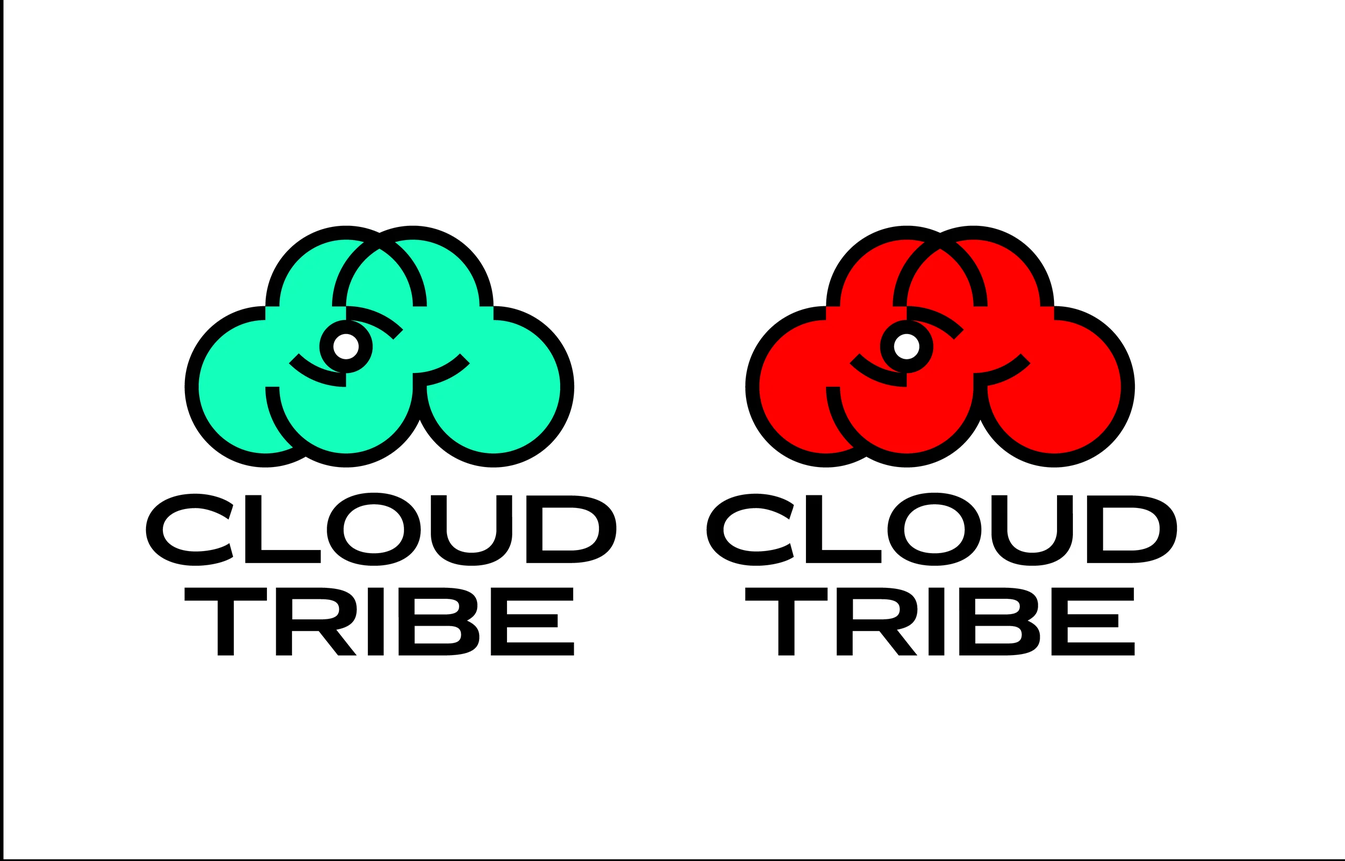
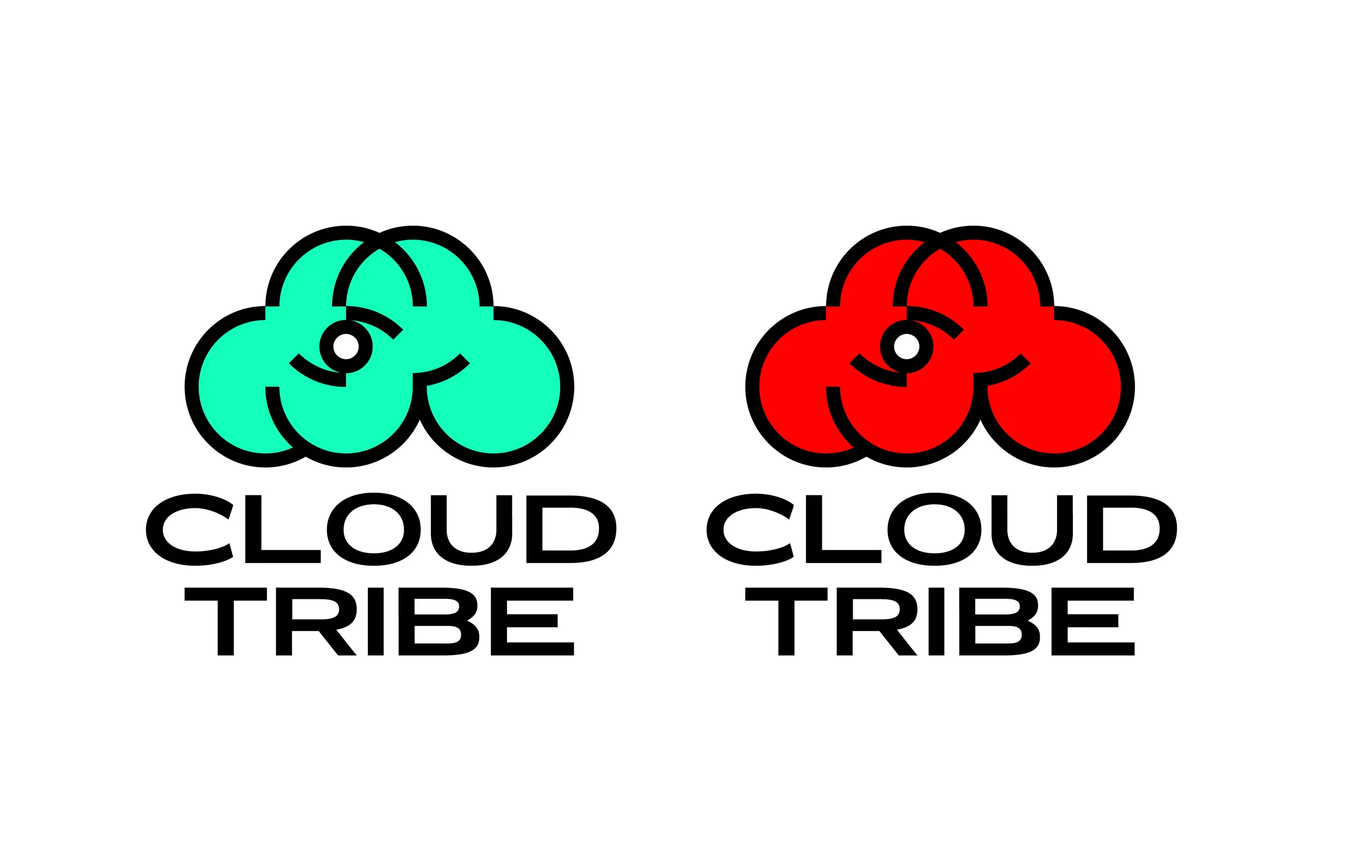
Fix transparent images showing black background

Changed region(s): [[0.0, 0.9957, 1.0, 1.0]]

diff --git a/404.html b/404.html
@@ -1,1 +1,1 @@
-<!DOCTYPE html><html lang="en" class="h-full antialiased"><head><meta charSet="utf-8"/><meta name="viewport" content="width=device-width, initial-scale=1"/><link rel="stylesheet" href="/_next/static/chunks/1lgjs4myrdrqh.css" data-precedence="next"/><link rel="preload" as="script" fetchPriority="low" href="/_next/static/chunks/3l04zcqx63h3y.js"/><script src="/_next/static/chunks/41qfcvra0dvw4.js" async=""></script><script src="/_next/static/chunks/27t_qfc-3_lzs.js" async=""></script><script src="/_next/static/chunks/turbopack-204cpt9buc445.js" async=""></script><script src="/_next/static/chunks/3fntmmi971322.js" async=""></script><meta name="robots" content="noindex"/><title>Elarys Tolkhyn</title><meta name="description" content="Elarys Tolkhyn — cross-media designer: UI/UX, book design, branding, and motion design."/><link rel="icon" href="/favicon.ico?favicon.2qs7753_qty8h.ico" sizes="32x32" type="image/x-icon"/><link rel="icon" href="/icon.png?icon.14ie00vih421c.png" sizes="256x256" type="image/png"/><title>404: This page could not be found.</title><script src="/_next/static/chunks/0cz1d0mv5g_q7.js" noModule=""></script></head><body class="h-full"><div hidden=""><!--$--><!--/$--></div><div style="font-family:system-ui,&quot;Segoe UI&quot;,Roboto,Helvetica,Arial,sans-serif,&quot;Apple Color Emoji&quot;,&quot;Segoe UI Emoji&quot;;height:100vh;text-align:center;display:flex;flex-direction:column;align-items:center;justify-content:center"><div><style>body{color:#000;background:#fff;margin:0}.next-error-h1{border-right:1px solid rgba(0,0,0,.3)}@media (prefers-color-scheme:dark){body{color:#fff;background:#000}.next-error-h1{border-right:1px solid rgba(255,255,255,.3)}}</style><h1 class="next-error-h1" style="display:inline-block;margin:0 20px 0 0;padding:0 23px 0 0;font-size:24px;font-weight:500;vertical-align:top;line-height:49px">404</h1><div style="display:inline-block"><h2 style="font-size:14px;font-weight:400;line-height:49px;margin:0">This page could not be found.</h2></div></div></div><!--$--><!--/$--><script src="/_next/static/chunks/3l04zcqx63h3y.js" id="_R_" async=""></script><script>(self.__next_f=self.__next_f||[]).push([0])</script><script>self.__next_f.push([1,"1:\"$Sreact.fragment\"\n2:I[39756,[\"/_next/static/chunks/3fntmmi971322.js\"],\"default\"]\n3:I[37457,[\"/_next/static/chunks/3fntmmi971322.js\"],\"default\"]\n4:I[97367,[\"/_next/static/chunks/3fntmmi971322.js\"],\"OutletBoundary\"]\n5:\"$Sreact.suspense\"\n8:I[97367,[\"/_next/static/chunks/3fntmmi971322.js\"],\"ViewportBoundary\"]\na:I[97367,[\"/_next/static/chunks/3fntmmi971322.js\"],\"MetadataBoundary\"]\nc:I[68027,[\"/_next/static/chunks/3fntmmi971322.js\"],\"default\",1]\n:HL[\"/_next/static/chunks/1lgjs4myrdrqh.css\",\"style\"]\n7:X\n0:{\"P\":null,\"c\":[\"\",\"_not-found\"],\"q\":\"\",\"i\":false,\"f\":[[[\"\",{\"children\":[\"/_not-found\",{\"children\":[\"__PAGE__\",{},\"$undefined\",\"$undefined\",4608]},\"$undefined\",\"$undefined\",4608]},\"$undefined\",\"$undefined\",4624],[[\"$\",\"$1\",\"c\",{\"children\":[[[\"$\",\"link\",\"0\",{\"rel\":\"stylesheet\",\"href\":\"/_next/static/chunks/1lgjs4myrdrqh.css\",\"precedence\":\"next\",\"crossOrigin\":\"$undefined\",\"nonce\":\"$undefined\"}],[\"$\",\"script\",\"script-0\",{\"src\":\"/_next/static/chunks/3fntmmi971322.js\",\"async\":true,\"nonce\":\"$undefined\"}]],[\"$\",\"html\",null,{\"lang\":\"en\",\"className\":\"h-full antialiased\",\"children\":[\"$\",\"body\",null,{\"className\":\"h-full\",\"children\":[\"$\",\"$L2\",null,{\"parallelRouterKey\":\"children\",\"error\":\"$undefined\",\"errorStyles\":\"$undefined\",\"errorScripts\":\"$undefined\",\"template\":[\"$\",\"$L3\",null,{}],\"templateStyles\":\"$undefined\",\"templateScripts\":\"$undefined\",\"notFound\":[[[\"$\",\"title\",null,{\"children\":\"404: This page could not be found.\"}],[\"$\",\"div\",null,{\"style\":{\"fontFamily\":\"system-ui,\\\"Segoe UI\\\",Roboto,Helvetica,Arial,sans-serif,\\\"Apple Color Emoji\\\",\\\"Segoe UI Emoji\\\"\",\"height\":\"100vh\",\"textAlign\":\"center\",\"display\":\"flex\",\"flexDirection\":\"column\",\"alignItems\":\"center\",\"justifyContent\":\"center\"},\"children\":[\"$\",\"div\",null,{\"children\":[[\"$\",\"style\",null,{\"dangerouslySetInnerHTML\":{\"__html\":\"body{color:#000;background:#fff;margin:0}.next-error-h1{border-right:1px solid rgba(0,0,0,.3)}@media (prefers-color-scheme:dark){body{color:#fff;background:#000}.next-error-h1{border-right:1px solid rgba(255,255,255,.3)}}\"}}],[\"$\",\"h1\",null,{\"className\":\"next-error-h1\",\"style\":{\"display\":\"inline-block\",\"margin\":\"0 20px 0 0\",\"padding\":\"0 23px 0 0\",\"fontSize\":24,\"fontWeight\":500,\"verticalAlign\":\"top\",\"lineHeight\":\"49px\"},\"children\":404}],[\"$\",\"div\",null,{\"style\":{\"display\":\"inline-block\"},\"children\":[\"$\",\"h2\",null,{\"style\":{\"fontSize\":14,\"fontWeight\":400,\"lineHeight\":\"49px\",\"margin\":0},\"children\":\"This page could not be found.\"}]}]]}]}]],[]],\"forbidden\":\"$undefined\",\"unauthorized\":\"$undefined\"}]}]}]]}],{\"children\":[[\"$\",\"$1\",\"c\",{\"children\":[null,[\"$\",\"$L2\",null,{\"parallelRouterKey\":\"children\",\"error\":\"$undefined\",\"errorStyles\":\"$undefined\",\"errorScripts\":\"$undefined\",\"template\":[\"$\",\"$L3\",null,{}],\"templateStyles\":\"$undefined\",\"templateScripts\":\"$undefined\",\"notFound\":\"$undefined\",\"forbidden\":\"$undefined\",\"unauthorized\":\"$undefined\"}]]}],{\"children\":[[\"$\",\"$1\",\"c\",{\"children\":[[[\"$\",\"title\",null,{\"children\":\"404: This page could not be found.\"}],[\"$\",\"div\",null,{\"style\":\"$0:f:0:1:0:props:children:1:props:children:props:children:props:notFound:0:1:props:style\",\"children\":[\"$\",\"div\",null,{\"children\":[[\"$\",\"style\",null,{\"dangerouslySetInnerHTML\":{\"__html\":\"body{color:#000;background:#fff;margin:0}.next-error-h1{border-right:1px solid rgba(0,0,0,.3)}@media (prefers-color-scheme:dark){body{color:#fff;background:#000}.next-error-h1{border-right:1px solid rgba(255,255,255,.3)}}\"}}],[\"$\",\"h1\",null,{\"className\":\"next-error-h1\",\"style\":\"$0:f:0:1:0:props:children:1:props:children:props:children:props:notFound:0:1:props:children:props:children:1:props:style\",\"children\":404}],[\"$\",\"div\",null,{\"style\":\"$0:f:0:1:0:props:children:1:props:children:props:children:props:notFound:0:1:props:children:props:children:2:props:style\",\"children\":[\"$\",\"h2\",null,{\"style\":\"$0:f:0:1:0:props:children:1:props:children:props:children:props:notFound:0:1:props:children:props:children:2:props:children:props:style\",\"children\":\"This page could not be found.\"}]}]]}]}]],null,[\"$\",\"$L4\",null,{\"children\":[\"$\",\"$5\",null,{\"name\":\"Next.MetadataOutlet\",\"children\":\"$@6\"}]}]]}],{},null,false,null]},null,false,\"$7\"]},null,false,null],[\"$\",\"$1\",\"h\",{\"children\":[[\"$\",\"meta\",null,{\"name\":\"robots\",\"content\":\"noindex\"}],[\"$\",\"$L8\",null,{\"children\":\"$L9\"}],[\"$\",\"div\",null,{\"hidden\":true,\"children\":[\"$\",\"$La\",null,{\"children\":[\"$\",\"$5\",null,{\"name\":\"Next.Metadata\",\"children\":\"$Lb\"}]}]}],null]}],false]],\"m\":\"$undefined\",\"G\":[\"$c\",[[\"$\",\"link\",\"0\",{\"rel\":\"stylesheet\",\"href\":\"/_next/static/chunks/1lgjs4myrdrqh.css\",\"precedence\":\"next\",\"crossOrigin\":\"$undefined\",\"nonce\":\"$undefined\"}]]],\"S\":true,\"h\":null,\"r\":\"$undefined\",\"s\":\"$undefined\",\"a\":\"$undefined\",\"l\":\"$undefined\",\"p\":\"$undefined\",\"d\":\"$undefined\",\"b\":\"ewr387u6FRDrMcxVjIfdd\"}\n7:C\n9:[[\"$\",\"meta\",\"0\",{\"charSet\":\"utf-8\"}],[\"$\",\"meta\",\"1\",{\"name\":\"viewport\",\"content\":\"width=device-width, initial-scale=1\"}]]\nd:I[27201,[\"/_next/static/chunks/3fntmmi971322.js\"],\"IconMark\"]\n6:null\nb:[[\"$\",\"title\",\"0\",{\"children\":\"Elarys Tolkhyn\"}],[\"$\",\"meta\",\"1\",{\"name\":\"description\",\"content\":\"Elarys Tolkhyn — cross-media designer: UI/UX, book design, branding, and motion design.\"}],[\"$\",\"link\",\"2\",{\"rel\":\"icon\",\"href\":\"/favicon.ico?favicon.2qs7753_qty8h.ico\",\"sizes\":\"32x32\",\"type\":\"image/x-icon\"}],[\"$\",\"link\",\"3\",{\"rel\":\"icon\",\"href\":\"/icon.png?icon.14ie00vih421c.png\",\"sizes\":\"256x256\",\"type\":\"image/png\"}],[\"$\",\"$Ld\",\"4\",{}]]\n"])</script></body></html>
+<!DOCTYPE html><html lang="en" class="h-full antialiased"><head><meta charSet="utf-8"/><meta name="viewport" content="width=device-width, initial-scale=1"/><link rel="stylesheet" href="/_next/static/chunks/1lgjs4myrdrqh.css" data-precedence="next"/><link rel="preload" as="script" fetchPriority="low" href="/_next/static/chunks/3l04zcqx63h3y.js"/><script src="/_next/static/chunks/41qfcvra0dvw4.js" async=""></script><script src="/_next/static/chunks/27t_qfc-3_lzs.js" async=""></script><script src="/_next/static/chunks/turbopack-204cpt9buc445.js" async=""></script><script src="/_next/static/chunks/3fntmmi971322.js" async=""></script><meta name="robots" content="noindex"/><title>Elarys Tolkhyn</title><meta name="description" content="Elarys Tolkhyn — cross-media designer: UI/UX, book design, branding, and motion design."/><link rel="icon" href="/favicon.ico?favicon.2qs7753_qty8h.ico" sizes="32x32" type="image/x-icon"/><link rel="icon" href="/icon.png?icon.14ie00vih421c.png" sizes="256x256" type="image/png"/><title>404: This page could not be found.</title><script src="/_next/static/chunks/0cz1d0mv5g_q7.js" noModule=""></script></head><body class="h-full"><div hidden=""><!--$--><!--/$--></div><div style="font-family:system-ui,&quot;Segoe UI&quot;,Roboto,Helvetica,Arial,sans-serif,&quot;Apple Color Emoji&quot;,&quot;Segoe UI Emoji&quot;;height:100vh;text-align:center;display:flex;flex-direction:column;align-items:center;justify-content:center"><div><style>body{color:#000;background:#fff;margin:0}.next-error-h1{border-right:1px solid rgba(0,0,0,.3)}@media (prefers-color-scheme:dark){body{color:#fff;background:#000}.next-error-h1{border-right:1px solid rgba(255,255,255,.3)}}</style><h1 class="next-error-h1" style="display:inline-block;margin:0 20px 0 0;padding:0 23px 0 0;font-size:24px;font-weight:500;vertical-align:top;line-height:49px">404</h1><div style="display:inline-block"><h2 style="font-size:14px;font-weight:400;line-height:49px;margin:0">This page could not be found.</h2></div></div></div><!--$--><!--/$--><script src="/_next/static/chunks/3l04zcqx63h3y.js" id="_R_" async=""></script><script>(self.__next_f=self.__next_f||[]).push([0])</script><script>self.__next_f.push([1,"1:\"$Sreact.fragment\"\n2:I[39756,[\"/_next/static/chunks/3fntmmi971322.js\"],\"default\"]\n3:I[37457,[\"/_next/static/chunks/3fntmmi971322.js\"],\"default\"]\n4:I[97367,[\"/_next/static/chunks/3fntmmi971322.js\"],\"OutletBoundary\"]\n5:\"$Sreact.suspense\"\n8:I[97367,[\"/_next/static/chunks/3fntmmi971322.js\"],\"ViewportBoundary\"]\na:I[97367,[\"/_next/static/chunks/3fntmmi971322.js\"],\"MetadataBoundary\"]\nc:I[68027,[\"/_next/static/chunks/3fntmmi971322.js\"],\"default\",1]\n:HL[\"/_next/static/chunks/1lgjs4myrdrqh.css\",\"style\"]\n7:X\n0:{\"P\":null,\"c\":[\"\",\"_not-found\"],\"q\":\"\",\"i\":false,\"f\":[[[\"\",{\"children\":[\"/_not-found\",{\"children\":[\"__PAGE__\",{},\"$undefined\",\"$undefined\",4608]},\"$undefined\",\"$undefined\",4608]},\"$undefined\",\"$undefined\",4624],[[\"$\",\"$1\",\"c\",{\"children\":[[[\"$\",\"link\",\"0\",{\"rel\":\"stylesheet\",\"href\":\"/_next/static/chunks/1lgjs4myrdrqh.css\",\"precedence\":\"next\",\"crossOrigin\":\"$undefined\",\"nonce\":\"$undefined\"}],[\"$\",\"script\",\"script-0\",{\"src\":\"/_next/static/chunks/3fntmmi971322.js\",\"async\":true,\"nonce\":\"$undefined\"}]],[\"$\",\"html\",null,{\"lang\":\"en\",\"className\":\"h-full antialiased\",\"children\":[\"$\",\"body\",null,{\"className\":\"h-full\",\"children\":[\"$\",\"$L2\",null,{\"parallelRouterKey\":\"children\",\"error\":\"$undefined\",\"errorStyles\":\"$undefined\",\"errorScripts\":\"$undefined\",\"template\":[\"$\",\"$L3\",null,{}],\"templateStyles\":\"$undefined\",\"templateScripts\":\"$undefined\",\"notFound\":[[[\"$\",\"title\",null,{\"children\":\"404: This page could not be found.\"}],[\"$\",\"div\",null,{\"style\":{\"fontFamily\":\"system-ui,\\\"Segoe UI\\\",Roboto,Helvetica,Arial,sans-serif,\\\"Apple Color Emoji\\\",\\\"Segoe UI Emoji\\\"\",\"height\":\"100vh\",\"textAlign\":\"center\",\"display\":\"flex\",\"flexDirection\":\"column\",\"alignItems\":\"center\",\"justifyContent\":\"center\"},\"children\":[\"$\",\"div\",null,{\"children\":[[\"$\",\"style\",null,{\"dangerouslySetInnerHTML\":{\"__html\":\"body{color:#000;background:#fff;margin:0}.next-error-h1{border-right:1px solid rgba(0,0,0,.3)}@media (prefers-color-scheme:dark){body{color:#fff;background:#000}.next-error-h1{border-right:1px solid rgba(255,255,255,.3)}}\"}}],[\"$\",\"h1\",null,{\"className\":\"next-error-h1\",\"style\":{\"display\":\"inline-block\",\"margin\":\"0 20px 0 0\",\"padding\":\"0 23px 0 0\",\"fontSize\":24,\"fontWeight\":500,\"verticalAlign\":\"top\",\"lineHeight\":\"49px\"},\"children\":404}],[\"$\",\"div\",null,{\"style\":{\"display\":\"inline-block\"},\"children\":[\"$\",\"h2\",null,{\"style\":{\"fontSize\":14,\"fontWeight\":400,\"lineHeight\":\"49px\",\"margin\":0},\"children\":\"This page could not be found.\"}]}]]}]}]],[]],\"forbidden\":\"$undefined\",\"unauthorized\":\"$undefined\"}]}]}]]}],{\"children\":[[\"$\",\"$1\",\"c\",{\"children\":[null,[\"$\",\"$L2\",null,{\"parallelRouterKey\":\"children\",\"error\":\"$undefined\",\"errorStyles\":\"$undefined\",\"errorScripts\":\"$undefined\",\"template\":[\"$\",\"$L3\",null,{}],\"templateStyles\":\"$undefined\",\"templateScripts\":\"$undefined\",\"notFound\":\"$undefined\",\"forbidden\":\"$undefined\",\"unauthorized\":\"$undefined\"}]]}],{\"children\":[[\"$\",\"$1\",\"c\",{\"children\":[[[\"$\",\"title\",null,{\"children\":\"404: This page could not be found.\"}],[\"$\",\"div\",null,{\"style\":\"$0:f:0:1:0:props:children:1:props:children:props:children:props:notFound:0:1:props:style\",\"children\":[\"$\",\"div\",null,{\"children\":[[\"$\",\"style\",null,{\"dangerouslySetInnerHTML\":{\"__html\":\"body{color:#000;background:#fff;margin:0}.next-error-h1{border-right:1px solid rgba(0,0,0,.3)}@media (prefers-color-scheme:dark){body{color:#fff;background:#000}.next-error-h1{border-right:1px solid rgba(255,255,255,.3)}}\"}}],[\"$\",\"h1\",null,{\"className\":\"next-error-h1\",\"style\":\"$0:f:0:1:0:props:children:1:props:children:props:children:props:notFound:0:1:props:children:props:children:1:props:style\",\"children\":404}],[\"$\",\"div\",null,{\"style\":\"$0:f:0:1:0:props:children:1:props:children:props:children:props:notFound:0:1:props:children:props:children:2:props:style\",\"children\":[\"$\",\"h2\",null,{\"style\":\"$0:f:0:1:0:props:children:1:props:children:props:children:props:notFound:0:1:props:children:props:children:2:props:children:props:style\",\"children\":\"This page could not be found.\"}]}]]}]}]],null,[\"$\",\"$L4\",null,{\"children\":[\"$\",\"$5\",null,{\"name\":\"Next.MetadataOutlet\",\"children\":\"$@6\"}]}]]}],{},null,false,null]},null,false,\"$7\"]},null,false,null],[\"$\",\"$1\",\"h\",{\"children\":[[\"$\",\"meta\",null,{\"name\":\"robots\",\"content\":\"noindex\"}],[\"$\",\"$L8\",null,{\"children\":\"$L9\"}],[\"$\",\"div\",null,{\"hidden\":true,\"children\":[\"$\",\"$La\",null,{\"children\":[\"$\",\"$5\",null,{\"name\":\"Next.Metadata\",\"children\":\"$Lb\"}]}]}],null]}],false]],\"m\":\"$undefined\",\"G\":[\"$c\",[[\"$\",\"link\",\"0\",{\"rel\":\"stylesheet\",\"href\":\"/_next/static/chunks/1lgjs4myrdrqh.css\",\"precedence\":\"next\",\"crossOrigin\":\"$undefined\",\"nonce\":\"$undefined\"}]]],\"S\":true,\"h\":null,\"r\":\"$undefined\",\"s\":\"$undefined\",\"a\":\"$undefined\",\"l\":\"$undefined\",\"p\":\"$undefined\",\"d\":\"$undefined\",\"b\":\"l8V9WzVtTxgX5KHyaX-Y7\"}\n7:C\n9:[[\"$\",\"meta\",\"0\",{\"charSet\":\"utf-8\"}],[\"$\",\"meta\",\"1\",{\"name\":\"viewport\",\"content\":\"width=device-width, initial-scale=1\"}]]\nd:I[27201,[\"/_next/static/chunks/3fntmmi971322.js\"],\"IconMark\"]\n6:null\nb:[[\"$\",\"title\",\"0\",{\"children\":\"Elarys Tolkhyn\"}],[\"$\",\"meta\",\"1\",{\"name\":\"description\",\"content\":\"Elarys Tolkhyn — cross-media designer: UI/UX, book design, branding, and motion design.\"}],[\"$\",\"link\",\"2\",{\"rel\":\"icon\",\"href\":\"/favicon.ico?favicon.2qs7753_qty8h.ico\",\"sizes\":\"32x32\",\"type\":\"image/x-icon\"}],[\"$\",\"link\",\"3\",{\"rel\":\"icon\",\"href\":\"/icon.png?icon.14ie00vih421c.png\",\"sizes\":\"256x256\",\"type\":\"image/png\"}],[\"$\",\"$Ld\",\"4\",{}]]\n"])</script></body></html>

diff --git a/_not-found.html b/_not-found.html
@@ -1,1 +1,1 @@
-<!DOCTYPE html><html lang="en" class="h-full antialiased"><head><meta charSet="utf-8"/><meta name="viewport" content="width=device-width, initial-scale=1"/><link rel="stylesheet" href="/_next/static/chunks/1lgjs4myrdrqh.css" data-precedence="next"/><link rel="preload" as="script" fetchPriority="low" href="/_next/static/chunks/3l04zcqx63h3y.js"/><script src="/_next/static/chunks/41qfcvra0dvw4.js" async=""></script><script src="/_next/static/chunks/27t_qfc-3_lzs.js" async=""></script><script src="/_next/static/chunks/turbopack-204cpt9buc445.js" async=""></script><script src="/_next/static/chunks/3fntmmi971322.js" async=""></script><meta name="robots" content="noindex"/><title>Elarys Tolkhyn</title><meta name="description" content="Elarys Tolkhyn — cross-media designer: UI/UX, book design, branding, and motion design."/><link rel="icon" href="/favicon.ico?favicon.2qs7753_qty8h.ico" sizes="32x32" type="image/x-icon"/><link rel="icon" href="/icon.png?icon.14ie00vih421c.png" sizes="256x256" type="image/png"/><title>404: This page could not be found.</title><script src="/_next/static/chunks/0cz1d0mv5g_q7.js" noModule=""></script></head><body class="h-full"><div hidden=""><!--$--><!--/$--></div><div style="font-family:system-ui,&quot;Segoe UI&quot;,Roboto,Helvetica,Arial,sans-serif,&quot;Apple Color Emoji&quot;,&quot;Segoe UI Emoji&quot;;height:100vh;text-align:center;display:flex;flex-direction:column;align-items:center;justify-content:center"><div><style>body{color:#000;background:#fff;margin:0}.next-error-h1{border-right:1px solid rgba(0,0,0,.3)}@media (prefers-color-scheme:dark){body{color:#fff;background:#000}.next-error-h1{border-right:1px solid rgba(255,255,255,.3)}}</style><h1 class="next-error-h1" style="display:inline-block;margin:0 20px 0 0;padding:0 23px 0 0;font-size:24px;font-weight:500;vertical-align:top;line-height:49px">404</h1><div style="display:inline-block"><h2 style="font-size:14px;font-weight:400;line-height:49px;margin:0">This page could not be found.</h2></div></div></div><!--$--><!--/$--><script src="/_next/static/chunks/3l04zcqx63h3y.js" id="_R_" async=""></script><script>(self.__next_f=self.__next_f||[]).push([0])</script><script>self.__next_f.push([1,"1:\"$Sreact.fragment\"\n2:I[39756,[\"/_next/static/chunks/3fntmmi971322.js\"],\"default\"]\n3:I[37457,[\"/_next/static/chunks/3fntmmi971322.js\"],\"default\"]\n4:I[97367,[\"/_next/static/chunks/3fntmmi971322.js\"],\"OutletBoundary\"]\n5:\"$Sreact.suspense\"\n8:I[97367,[\"/_next/static/chunks/3fntmmi971322.js\"],\"ViewportBoundary\"]\na:I[97367,[\"/_next/static/chunks/3fntmmi971322.js\"],\"MetadataBoundary\"]\nc:I[68027,[\"/_next/static/chunks/3fntmmi971322.js\"],\"default\",1]\n:HL[\"/_next/static/chunks/1lgjs4myrdrqh.css\",\"style\"]\n7:X\n0:{\"P\":null,\"c\":[\"\",\"_not-found\"],\"q\":\"\",\"i\":false,\"f\":[[[\"\",{\"children\":[\"/_not-found\",{\"children\":[\"__PAGE__\",{},\"$undefined\",\"$undefined\",4608]},\"$undefined\",\"$undefined\",4608]},\"$undefined\",\"$undefined\",4624],[[\"$\",\"$1\",\"c\",{\"children\":[[[\"$\",\"link\",\"0\",{\"rel\":\"stylesheet\",\"href\":\"/_next/static/chunks/1lgjs4myrdrqh.css\",\"precedence\":\"next\",\"crossOrigin\":\"$undefined\",\"nonce\":\"$undefined\"}],[\"$\",\"script\",\"script-0\",{\"src\":\"/_next/static/chunks/3fntmmi971322.js\",\"async\":true,\"nonce\":\"$undefined\"}]],[\"$\",\"html\",null,{\"lang\":\"en\",\"className\":\"h-full antialiased\",\"children\":[\"$\",\"body\",null,{\"className\":\"h-full\",\"children\":[\"$\",\"$L2\",null,{\"parallelRouterKey\":\"children\",\"error\":\"$undefined\",\"errorStyles\":\"$undefined\",\"errorScripts\":\"$undefined\",\"template\":[\"$\",\"$L3\",null,{}],\"templateStyles\":\"$undefined\",\"templateScripts\":\"$undefined\",\"notFound\":[[[\"$\",\"title\",null,{\"children\":\"404: This page could not be found.\"}],[\"$\",\"div\",null,{\"style\":{\"fontFamily\":\"system-ui,\\\"Segoe UI\\\",Roboto,Helvetica,Arial,sans-serif,\\\"Apple Color Emoji\\\",\\\"Segoe UI Emoji\\\"\",\"height\":\"100vh\",\"textAlign\":\"center\",\"display\":\"flex\",\"flexDirection\":\"column\",\"alignItems\":\"center\",\"justifyContent\":\"center\"},\"children\":[\"$\",\"div\",null,{\"children\":[[\"$\",\"style\",null,{\"dangerouslySetInnerHTML\":{\"__html\":\"body{color:#000;background:#fff;margin:0}.next-error-h1{border-right:1px solid rgba(0,0,0,.3)}@media (prefers-color-scheme:dark){body{color:#fff;background:#000}.next-error-h1{border-right:1px solid rgba(255,255,255,.3)}}\"}}],[\"$\",\"h1\",null,{\"className\":\"next-error-h1\",\"style\":{\"display\":\"inline-block\",\"margin\":\"0 20px 0 0\",\"padding\":\"0 23px 0 0\",\"fontSize\":24,\"fontWeight\":500,\"verticalAlign\":\"top\",\"lineHeight\":\"49px\"},\"children\":404}],[\"$\",\"div\",null,{\"style\":{\"display\":\"inline-block\"},\"children\":[\"$\",\"h2\",null,{\"style\":{\"fontSize\":14,\"fontWeight\":400,\"lineHeight\":\"49px\",\"margin\":0},\"children\":\"This page could not be found.\"}]}]]}]}]],[]],\"forbidden\":\"$undefined\",\"unauthorized\":\"$undefined\"}]}]}]]}],{\"children\":[[\"$\",\"$1\",\"c\",{\"children\":[null,[\"$\",\"$L2\",null,{\"parallelRouterKey\":\"children\",\"error\":\"$undefined\",\"errorStyles\":\"$undefined\",\"errorScripts\":\"$undefined\",\"template\":[\"$\",\"$L3\",null,{}],\"templateStyles\":\"$undefined\",\"templateScripts\":\"$undefined\",\"notFound\":\"$undefined\",\"forbidden\":\"$undefined\",\"unauthorized\":\"$undefined\"}]]}],{\"children\":[[\"$\",\"$1\",\"c\",{\"children\":[[[\"$\",\"title\",null,{\"children\":\"404: This page could not be found.\"}],[\"$\",\"div\",null,{\"style\":\"$0:f:0:1:0:props:children:1:props:children:props:children:props:notFound:0:1:props:style\",\"children\":[\"$\",\"div\",null,{\"children\":[[\"$\",\"style\",null,{\"dangerouslySetInnerHTML\":{\"__html\":\"body{color:#000;background:#fff;margin:0}.next-error-h1{border-right:1px solid rgba(0,0,0,.3)}@media (prefers-color-scheme:dark){body{color:#fff;background:#000}.next-error-h1{border-right:1px solid rgba(255,255,255,.3)}}\"}}],[\"$\",\"h1\",null,{\"className\":\"next-error-h1\",\"style\":\"$0:f:0:1:0:props:children:1:props:children:props:children:props:notFound:0:1:props:children:props:children:1:props:style\",\"children\":404}],[\"$\",\"div\",null,{\"style\":\"$0:f:0:1:0:props:children:1:props:children:props:children:props:notFound:0:1:props:children:props:children:2:props:style\",\"children\":[\"$\",\"h2\",null,{\"style\":\"$0:f:0:1:0:props:children:1:props:children:props:children:props:notFound:0:1:props:children:props:children:2:props:children:props:style\",\"children\":\"This page could not be found.\"}]}]]}]}]],null,[\"$\",\"$L4\",null,{\"children\":[\"$\",\"$5\",null,{\"name\":\"Next.MetadataOutlet\",\"children\":\"$@6\"}]}]]}],{},null,false,null]},null,false,\"$7\"]},null,false,null],[\"$\",\"$1\",\"h\",{\"children\":[[\"$\",\"meta\",null,{\"name\":\"robots\",\"content\":\"noindex\"}],[\"$\",\"$L8\",null,{\"children\":\"$L9\"}],[\"$\",\"div\",null,{\"hidden\":true,\"children\":[\"$\",\"$La\",null,{\"children\":[\"$\",\"$5\",null,{\"name\":\"Next.Metadata\",\"children\":\"$Lb\"}]}]}],null]}],false]],\"m\":\"$undefined\",\"G\":[\"$c\",[[\"$\",\"link\",\"0\",{\"rel\":\"stylesheet\",\"href\":\"/_next/static/chunks/1lgjs4myrdrqh.css\",\"precedence\":\"next\",\"crossOrigin\":\"$undefined\",\"nonce\":\"$undefined\"}]]],\"S\":true,\"h\":null,\"r\":\"$undefined\",\"s\":\"$undefined\",\"a\":\"$undefined\",\"l\":\"$undefined\",\"p\":\"$undefined\",\"d\":\"$undefined\",\"b\":\"ewr387u6FRDrMcxVjIfdd\"}\n7:C\n9:[[\"$\",\"meta\",\"0\",{\"charSet\":\"utf-8\"}],[\"$\",\"meta\",\"1\",{\"name\":\"viewport\",\"content\":\"width=device-width, initial-scale=1\"}]]\nd:I[27201,[\"/_next/static/chunks/3fntmmi971322.js\"],\"IconMark\"]\n6:null\nb:[[\"$\",\"title\",\"0\",{\"children\":\"Elarys Tolkhyn\"}],[\"$\",\"meta\",\"1\",{\"name\":\"description\",\"content\":\"Elarys Tolkhyn — cross-media designer: UI/UX, book design, branding, and motion design.\"}],[\"$\",\"link\",\"2\",{\"rel\":\"icon\",\"href\":\"/favicon.ico?favicon.2qs7753_qty8h.ico\",\"sizes\":\"32x32\",\"type\":\"image/x-icon\"}],[\"$\",\"link\",\"3\",{\"rel\":\"icon\",\"href\":\"/icon.png?icon.14ie00vih421c.png\",\"sizes\":\"256x256\",\"type\":\"image/png\"}],[\"$\",\"$Ld\",\"4\",{}]]\n"])</script></body></html>
+<!DOCTYPE html><html lang="en" class="h-full antialiased"><head><meta charSet="utf-8"/><meta name="viewport" content="width=device-width, initial-scale=1"/><link rel="stylesheet" href="/_next/static/chunks/1lgjs4myrdrqh.css" data-precedence="next"/><link rel="preload" as="script" fetchPriority="low" href="/_next/static/chunks/3l04zcqx63h3y.js"/><script src="/_next/static/chunks/41qfcvra0dvw4.js" async=""></script><script src="/_next/static/chunks/27t_qfc-3_lzs.js" async=""></script><script src="/_next/static/chunks/turbopack-204cpt9buc445.js" async=""></script><script src="/_next/static/chunks/3fntmmi971322.js" async=""></script><meta name="robots" content="noindex"/><title>Elarys Tolkhyn</title><meta name="description" content="Elarys Tolkhyn — cross-media designer: UI/UX, book design, branding, and motion design."/><link rel="icon" href="/favicon.ico?favicon.2qs7753_qty8h.ico" sizes="32x32" type="image/x-icon"/><link rel="icon" href="/icon.png?icon.14ie00vih421c.png" sizes="256x256" type="image/png"/><title>404: This page could not be found.</title><script src="/_next/static/chunks/0cz1d0mv5g_q7.js" noModule=""></script></head><body class="h-full"><div hidden=""><!--$--><!--/$--></div><div style="font-family:system-ui,&quot;Segoe UI&quot;,Roboto,Helvetica,Arial,sans-serif,&quot;Apple Color Emoji&quot;,&quot;Segoe UI Emoji&quot;;height:100vh;text-align:center;display:flex;flex-direction:column;align-items:center;justify-content:center"><div><style>body{color:#000;background:#fff;margin:0}.next-error-h1{border-right:1px solid rgba(0,0,0,.3)}@media (prefers-color-scheme:dark){body{color:#fff;background:#000}.next-error-h1{border-right:1px solid rgba(255,255,255,.3)}}</style><h1 class="next-error-h1" style="display:inline-block;margin:0 20px 0 0;padding:0 23px 0 0;font-size:24px;font-weight:500;vertical-align:top;line-height:49px">404</h1><div style="display:inline-block"><h2 style="font-size:14px;font-weight:400;line-height:49px;margin:0">This page could not be found.</h2></div></div></div><!--$--><!--/$--><script src="/_next/static/chunks/3l04zcqx63h3y.js" id="_R_" async=""></script><script>(self.__next_f=self.__next_f||[]).push([0])</script><script>self.__next_f.push([1,"1:\"$Sreact.fragment\"\n2:I[39756,[\"/_next/static/chunks/3fntmmi971322.js\"],\"default\"]\n3:I[37457,[\"/_next/static/chunks/3fntmmi971322.js\"],\"default\"]\n4:I[97367,[\"/_next/static/chunks/3fntmmi971322.js\"],\"OutletBoundary\"]\n5:\"$Sreact.suspense\"\n8:I[97367,[\"/_next/static/chunks/3fntmmi971322.js\"],\"ViewportBoundary\"]\na:I[97367,[\"/_next/static/chunks/3fntmmi971322.js\"],\"MetadataBoundary\"]\nc:I[68027,[\"/_next/static/chunks/3fntmmi971322.js\"],\"default\",1]\n:HL[\"/_next/static/chunks/1lgjs4myrdrqh.css\",\"style\"]\n7:X\n0:{\"P\":null,\"c\":[\"\",\"_not-found\"],\"q\":\"\",\"i\":false,\"f\":[[[\"\",{\"children\":[\"/_not-found\",{\"children\":[\"__PAGE__\",{},\"$undefined\",\"$undefined\",4608]},\"$undefined\",\"$undefined\",4608]},\"$undefined\",\"$undefined\",4624],[[\"$\",\"$1\",\"c\",{\"children\":[[[\"$\",\"link\",\"0\",{\"rel\":\"stylesheet\",\"href\":\"/_next/static/chunks/1lgjs4myrdrqh.css\",\"precedence\":\"next\",\"crossOrigin\":\"$undefined\",\"nonce\":\"$undefined\"}],[\"$\",\"script\",\"script-0\",{\"src\":\"/_next/static/chunks/3fntmmi971322.js\",\"async\":true,\"nonce\":\"$undefined\"}]],[\"$\",\"html\",null,{\"lang\":\"en\",\"className\":\"h-full antialiased\",\"children\":[\"$\",\"body\",null,{\"className\":\"h-full\",\"children\":[\"$\",\"$L2\",null,{\"parallelRouterKey\":\"children\",\"error\":\"$undefined\",\"errorStyles\":\"$undefined\",\"errorScripts\":\"$undefined\",\"template\":[\"$\",\"$L3\",null,{}],\"templateStyles\":\"$undefined\",\"templateScripts\":\"$undefined\",\"notFound\":[[[\"$\",\"title\",null,{\"children\":\"404: This page could not be found.\"}],[\"$\",\"div\",null,{\"style\":{\"fontFamily\":\"system-ui,\\\"Segoe UI\\\",Roboto,Helvetica,Arial,sans-serif,\\\"Apple Color Emoji\\\",\\\"Segoe UI Emoji\\\"\",\"height\":\"100vh\",\"textAlign\":\"center\",\"display\":\"flex\",\"flexDirection\":\"column\",\"alignItems\":\"center\",\"justifyContent\":\"center\"},\"children\":[\"$\",\"div\",null,{\"children\":[[\"$\",\"style\",null,{\"dangerouslySetInnerHTML\":{\"__html\":\"body{color:#000;background:#fff;margin:0}.next-error-h1{border-right:1px solid rgba(0,0,0,.3)}@media (prefers-color-scheme:dark){body{color:#fff;background:#000}.next-error-h1{border-right:1px solid rgba(255,255,255,.3)}}\"}}],[\"$\",\"h1\",null,{\"className\":\"next-error-h1\",\"style\":{\"display\":\"inline-block\",\"margin\":\"0 20px 0 0\",\"padding\":\"0 23px 0 0\",\"fontSize\":24,\"fontWeight\":500,\"verticalAlign\":\"top\",\"lineHeight\":\"49px\"},\"children\":404}],[\"$\",\"div\",null,{\"style\":{\"display\":\"inline-block\"},\"children\":[\"$\",\"h2\",null,{\"style\":{\"fontSize\":14,\"fontWeight\":400,\"lineHeight\":\"49px\",\"margin\":0},\"children\":\"This page could not be found.\"}]}]]}]}]],[]],\"forbidden\":\"$undefined\",\"unauthorized\":\"$undefined\"}]}]}]]}],{\"children\":[[\"$\",\"$1\",\"c\",{\"children\":[null,[\"$\",\"$L2\",null,{\"parallelRouterKey\":\"children\",\"error\":\"$undefined\",\"errorStyles\":\"$undefined\",\"errorScripts\":\"$undefined\",\"template\":[\"$\",\"$L3\",null,{}],\"templateStyles\":\"$undefined\",\"templateScripts\":\"$undefined\",\"notFound\":\"$undefined\",\"forbidden\":\"$undefined\",\"unauthorized\":\"$undefined\"}]]}],{\"children\":[[\"$\",\"$1\",\"c\",{\"children\":[[[\"$\",\"title\",null,{\"children\":\"404: This page could not be found.\"}],[\"$\",\"div\",null,{\"style\":\"$0:f:0:1:0:props:children:1:props:children:props:children:props:notFound:0:1:props:style\",\"children\":[\"$\",\"div\",null,{\"children\":[[\"$\",\"style\",null,{\"dangerouslySetInnerHTML\":{\"__html\":\"body{color:#000;background:#fff;margin:0}.next-error-h1{border-right:1px solid rgba(0,0,0,.3)}@media (prefers-color-scheme:dark){body{color:#fff;background:#000}.next-error-h1{border-right:1px solid rgba(255,255,255,.3)}}\"}}],[\"$\",\"h1\",null,{\"className\":\"next-error-h1\",\"style\":\"$0:f:0:1:0:props:children:1:props:children:props:children:props:notFound:0:1:props:children:props:children:1:props:style\",\"children\":404}],[\"$\",\"div\",null,{\"style\":\"$0:f:0:1:0:props:children:1:props:children:props:children:props:notFound:0:1:props:children:props:children:2:props:style\",\"children\":[\"$\",\"h2\",null,{\"style\":\"$0:f:0:1:0:props:children:1:props:children:props:children:props:notFound:0:1:props:children:props:children:2:props:children:props:style\",\"children\":\"This page could not be found.\"}]}]]}]}]],null,[\"$\",\"$L4\",null,{\"children\":[\"$\",\"$5\",null,{\"name\":\"Next.MetadataOutlet\",\"children\":\"$@6\"}]}]]}],{},null,false,null]},null,false,\"$7\"]},null,false,null],[\"$\",\"$1\",\"h\",{\"children\":[[\"$\",\"meta\",null,{\"name\":\"robots\",\"content\":\"noindex\"}],[\"$\",\"$L8\",null,{\"children\":\"$L9\"}],[\"$\",\"div\",null,{\"hidden\":true,\"children\":[\"$\",\"$La\",null,{\"children\":[\"$\",\"$5\",null,{\"name\":\"Next.Metadata\",\"children\":\"$Lb\"}]}]}],null]}],false]],\"m\":\"$undefined\",\"G\":[\"$c\",[[\"$\",\"link\",\"0\",{\"rel\":\"stylesheet\",\"href\":\"/_next/static/chunks/1lgjs4myrdrqh.css\",\"precedence\":\"next\",\"crossOrigin\":\"$undefined\",\"nonce\":\"$undefined\"}]]],\"S\":true,\"h\":null,\"r\":\"$undefined\",\"s\":\"$undefined\",\"a\":\"$undefined\",\"l\":\"$undefined\",\"p\":\"$undefined\",\"d\":\"$undefined\",\"b\":\"l8V9WzVtTxgX5KHyaX-Y7\"}\n7:C\n9:[[\"$\",\"meta\",\"0\",{\"charSet\":\"utf-8\"}],[\"$\",\"meta\",\"1\",{\"name\":\"viewport\",\"content\":\"width=device-width, initial-scale=1\"}]]\nd:I[27201,[\"/_next/static/chunks/3fntmmi971322.js\"],\"IconMark\"]\n6:null\nb:[[\"$\",\"title\",\"0\",{\"children\":\"Elarys Tolkhyn\"}],[\"$\",\"meta\",\"1\",{\"name\":\"description\",\"content\":\"Elarys Tolkhyn — cross-media designer: UI/UX, book design, branding, and motion design.\"}],[\"$\",\"link\",\"2\",{\"rel\":\"icon\",\"href\":\"/favicon.ico?favicon.2qs7753_qty8h.ico\",\"sizes\":\"32x32\",\"type\":\"image/x-icon\"}],[\"$\",\"link\",\"3\",{\"rel\":\"icon\",\"href\":\"/icon.png?icon.14ie00vih421c.png\",\"sizes\":\"256x256\",\"type\":\"image/png\"}],[\"$\",\"$Ld\",\"4\",{}]]\n"])</script></body></html>

diff --git a/index.html b/index.html
@@ -9,4 +9,4 @@
         src: url("sites/studiodpi-work-708a7940/root-8a5edab2/fonts/AntiqueOli-Reg.woff2") format("woff2");
         font-display: swap;
       }
-    </style><main class="relative min-h-screen w-full bg-white"></main><!--$--><!--/$--><script src="/_next/static/chunks/3l04zcqx63h3y.js" id="_R_" async=""></script><script>(self.__next_f=self.__next_f||[]).push([0])</script><script>self.__next_f.push([1,"1:\"$Sreact.fragment\"\n2:I[39756,[\"/_next/static/chunks/3fntmmi971322.js\"],\"default\"]\n3:I[37457,[\"/_next/static/chunks/3fntmmi971322.js\"],\"default\"]\n4:I[25625,[\"/_next/static/chunks/3fntmmi971322.js\",\"/_next/static/chunks/2-dr2digc02bp.js\"],\"DpiApp\"]\n5:I[97367,[\"/_next/static/chunks/3fntmmi971322.js\"],\"OutletBoundary\"]\n6:\"$Sreact.suspense\"\n8:I[97367,[\"/_next/static/chunks/3fntmmi971322.js\"],\"ViewportBoundary\"]\na:I[97367,[\"/_next/static/chunks/3fntmmi971322.js\"],\"MetadataBoundary\"]\nc:I[68027,[\"/_next/static/chunks/3fntmmi971322.js\"],\"default\",1]\n:HL[\"/_next/static/chunks/1lgjs4myrdrqh.css\",\"style\"]\n:HL[\"/_next/static/chunks/22r45i7cmhs_4.css\",\"style\"]\n0:{\"P\":null,\"c\":[\"\",\"\"],\"q\":\"\",\"i\":false,\"f\":[[[\"\",{\"children\":[\"__PAGE__\",{},\"$undefined\",\"$undefined\",4608]},\"$undefined\",\"$undefined\",4624],[[\"$\",\"$1\",\"c\",{\"children\":[[[\"$\",\"link\",\"0\",{\"rel\":\"stylesheet\",\"href\":\"/_next/static/chunks/1lgjs4myrdrqh.css\",\"precedence\":\"next\",\"crossOrigin\":\"$undefined\",\"nonce\":\"$undefined\"}],[\"$\",\"script\",\"script-0\",{\"src\":\"/_next/static/chunks/3fntmmi971322.js\",\"async\":true,\"nonce\":\"$undefined\"}]],[\"$\",\"html\",null,{\"lang\":\"en\",\"className\":\"h-full antialiased\",\"children\":[\"$\",\"body\",null,{\"className\":\"h-full\",\"children\":[\"$\",\"$L2\",null,{\"parallelRouterKey\":\"children\",\"error\":\"$undefined\",\"errorStyles\":\"$undefined\",\"errorScripts\":\"$undefined\",\"template\":[\"$\",\"$L3\",null,{}],\"templateStyles\":\"$undefined\",\"templateScripts\":\"$undefined\",\"notFound\":[[[\"$\",\"title\",null,{\"children\":\"404: This page could not be found.\"}],[\"$\",\"div\",null,{\"style\":{\"fontFamily\":\"system-ui,\\\"Segoe UI\\\",Roboto,Helvetica,Arial,sans-serif,\\\"Apple Color Emoji\\\",\\\"Segoe UI Emoji\\\"\",\"height\":\"100vh\",\"textAlign\":\"center\",\"display\":\"flex\",\"flexDirection\":\"column\",\"alignItems\":\"center\",\"justifyContent\":\"center\"},\"children\":[\"$\",\"div\",null,{\"children\":[[\"$\",\"style\",null,{\"dangerouslySetInnerHTML\":{\"__html\":\"body{color:#000;background:#fff;margin:0}.next-error-h1{border-right:1px solid rgba(0,0,0,.3)}@media (prefers-color-scheme:dark){body{color:#fff;background:#000}.next-error-h1{border-right:1px solid rgba(255,255,255,.3)}}\"}}],[\"$\",\"h1\",null,{\"className\":\"next-error-h1\",\"style\":{\"display\":\"inline-block\",\"margin\":\"0 20px 0 0\",\"padding\":\"0 23px 0 0\",\"fontSize\":24,\"fontWeight\":500,\"verticalAlign\":\"top\",\"lineHeight\":\"49px\"},\"children\":404}],[\"$\",\"div\",null,{\"style\":{\"display\":\"inline-block\"},\"children\":[\"$\",\"h2\",null,{\"style\":{\"fontSize\":14,\"fontWeight\":400,\"lineHeight\":\"49px\",\"margin\":0},\"children\":\"This page could not be found.\"}]}]]}]}]],[]],\"forbidden\":\"$undefined\",\"unauthorized\":\"$undefined\"}]}]}]]}],{\"children\":[[\"$\",\"$1\",\"c\",{\"children\":[[\"$\",\"$L4\",null,{}],[[\"$\",\"link\",\"0\",{\"rel\":\"stylesheet\",\"href\":\"/_next/static/chunks/22r45i7cmhs_4.css\",\"precedence\":\"next\",\"crossOrigin\":\"$undefined\",\"nonce\":\"$undefined\"}],[\"$\",\"script\",\"script-0\",{\"src\":\"/_next/static/chunks/2-dr2digc02bp.js\",\"async\":true,\"nonce\":\"$undefined\"}]],[\"$\",\"$L5\",null,{\"children\":[\"$\",\"$6\",null,{\"name\":\"Next.MetadataOutlet\",\"children\":\"$@7\"}]}]]}],{},null,false,null]},null,false,null],[\"$\",\"$1\",\"h\",{\"children\":[null,[\"$\",\"$L8\",null,{\"children\":\"$L9\"}],[\"$\",\"div\",null,{\"hidden\":true,\"children\":[\"$\",\"$La\",null,{\"children\":[\"$\",\"$6\",null,{\"name\":\"Next.Metadata\",\"children\":\"$Lb\"}]}]}],null]}],false]],\"m\":\"$undefined\",\"G\":[\"$c\",[[\"$\",\"link\",\"0\",{\"rel\":\"stylesheet\",\"href\":\"/_next/static/chunks/1lgjs4myrdrqh.css\",\"precedence\":\"next\",\"crossOrigin\":\"$undefined\",\"nonce\":\"$undefined\"}]]],\"S\":true,\"h\":null,\"r\":\"$undefined\",\"s\":\"$undefined\",\"a\":\"$undefined\",\"l\":\"$undefined\",\"p\":\"$undefined\",\"d\":\"$undefined\",\"b\":\"ewr387u6FRDrMcxVjIfdd\"}\n9:[[\"$\",\"meta\",\"0\",{\"charSet\":\"utf-8\"}],[\"$\",\"meta\",\"1\",{\"name\":\"viewport\",\"content\":\"width=device-width, initial-scale=1\"}]]\nd:I[27201,[\"/_next/static/chunks/3fntmmi971322.js\"],\"IconMark\"]\n7:null\nb:[[\"$\",\"title\",\"0\",{\"children\":\"Elarys Tolkhyn\"}],[\"$\",\"meta\",\"1\",{\"name\":\"description\",\"content\":\"Elarys Tolkhyn — cross-media designer: UI/UX, book design, branding, and motion design.\"}],[\"$\",\"link\",\"2\",{\"rel\":\"icon\",\"href\":\"/favicon.ico?favicon.2qs7753_qty8h.ico\",\"sizes\":\"32x32\",\"type\":\"image/x-icon\"}],[\"$\",\"link\",\"3\",{\"rel\":\"icon\",\"href\":\"/icon.png?icon.14ie00vih421c.png\",\"sizes\":\"256x256\",\"type\":\"image/png\"}],[\"$\",\"$Ld\",\"4\",{}]]\n"])</script></body></html>
+    </style><main class="relative min-h-screen w-full bg-white"></main><!--$--><!--/$--><script src="/_next/static/chunks/3l04zcqx63h3y.js" id="_R_" async=""></script><script>(self.__next_f=self.__next_f||[]).push([0])</script><script>self.__next_f.push([1,"1:\"$Sreact.fragment\"\n2:I[39756,[\"/_next/static/chunks/3fntmmi971322.js\"],\"default\"]\n3:I[37457,[\"/_next/static/chunks/3fntmmi971322.js\"],\"default\"]\n4:I[25625,[\"/_next/static/chunks/3fntmmi971322.js\",\"/_next/static/chunks/2-dr2digc02bp.js\"],\"DpiApp\"]\n5:I[97367,[\"/_next/static/chunks/3fntmmi971322.js\"],\"OutletBoundary\"]\n6:\"$Sreact.suspense\"\n8:I[97367,[\"/_next/static/chunks/3fntmmi971322.js\"],\"ViewportBoundary\"]\na:I[97367,[\"/_next/static/chunks/3fntmmi971322.js\"],\"MetadataBoundary\"]\nc:I[68027,[\"/_next/static/chunks/3fntmmi971322.js\"],\"default\",1]\n:HL[\"/_next/static/chunks/1lgjs4myrdrqh.css\",\"style\"]\n:HL[\"/_next/static/chunks/22r45i7cmhs_4.css\",\"style\"]\n0:{\"P\":null,\"c\":[\"\",\"\"],\"q\":\"\",\"i\":false,\"f\":[[[\"\",{\"children\":[\"__PAGE__\",{},\"$undefined\",\"$undefined\",4608]},\"$undefined\",\"$undefined\",4624],[[\"$\",\"$1\",\"c\",{\"children\":[[[\"$\",\"link\",\"0\",{\"rel\":\"stylesheet\",\"href\":\"/_next/static/chunks/1lgjs4myrdrqh.css\",\"precedence\":\"next\",\"crossOrigin\":\"$undefined\",\"nonce\":\"$undefined\"}],[\"$\",\"script\",\"script-0\",{\"src\":\"/_next/static/chunks/3fntmmi971322.js\",\"async\":true,\"nonce\":\"$undefined\"}]],[\"$\",\"html\",null,{\"lang\":\"en\",\"className\":\"h-full antialiased\",\"children\":[\"$\",\"body\",null,{\"className\":\"h-full\",\"children\":[\"$\",\"$L2\",null,{\"parallelRouterKey\":\"children\",\"error\":\"$undefined\",\"errorStyles\":\"$undefined\",\"errorScripts\":\"$undefined\",\"template\":[\"$\",\"$L3\",null,{}],\"templateStyles\":\"$undefined\",\"templateScripts\":\"$undefined\",\"notFound\":[[[\"$\",\"title\",null,{\"children\":\"404: This page could not be found.\"}],[\"$\",\"div\",null,{\"style\":{\"fontFamily\":\"system-ui,\\\"Segoe UI\\\",Roboto,Helvetica,Arial,sans-serif,\\\"Apple Color Emoji\\\",\\\"Segoe UI Emoji\\\"\",\"height\":\"100vh\",\"textAlign\":\"center\",\"display\":\"flex\",\"flexDirection\":\"column\",\"alignItems\":\"center\",\"justifyContent\":\"center\"},\"children\":[\"$\",\"div\",null,{\"children\":[[\"$\",\"style\",null,{\"dangerouslySetInnerHTML\":{\"__html\":\"body{color:#000;background:#fff;margin:0}.next-error-h1{border-right:1px solid rgba(0,0,0,.3)}@media (prefers-color-scheme:dark){body{color:#fff;background:#000}.next-error-h1{border-right:1px solid rgba(255,255,255,.3)}}\"}}],[\"$\",\"h1\",null,{\"className\":\"next-error-h1\",\"style\":{\"display\":\"inline-block\",\"margin\":\"0 20px 0 0\",\"padding\":\"0 23px 0 0\",\"fontSize\":24,\"fontWeight\":500,\"verticalAlign\":\"top\",\"lineHeight\":\"49px\"},\"children\":404}],[\"$\",\"div\",null,{\"style\":{\"display\":\"inline-block\"},\"children\":[\"$\",\"h2\",null,{\"style\":{\"fontSize\":14,\"fontWeight\":400,\"lineHeight\":\"49px\",\"margin\":0},\"children\":\"This page could not be found.\"}]}]]}]}]],[]],\"forbidden\":\"$undefined\",\"unauthorized\":\"$undefined\"}]}]}]]}],{\"children\":[[\"$\",\"$1\",\"c\",{\"children\":[[\"$\",\"$L4\",null,{}],[[\"$\",\"link\",\"0\",{\"rel\":\"stylesheet\",\"href\":\"/_next/static/chunks/22r45i7cmhs_4.css\",\"precedence\":\"next\",\"crossOrigin\":\"$undefined\",\"nonce\":\"$undefined\"}],[\"$\",\"script\",\"script-0\",{\"src\":\"/_next/static/chunks/2-dr2digc02bp.js\",\"async\":true,\"nonce\":\"$undefined\"}]],[\"$\",\"$L5\",null,{\"children\":[\"$\",\"$6\",null,{\"name\":\"Next.MetadataOutlet\",\"children\":\"$@7\"}]}]]}],{},null,false,null]},null,false,null],[\"$\",\"$1\",\"h\",{\"children\":[null,[\"$\",\"$L8\",null,{\"children\":\"$L9\"}],[\"$\",\"div\",null,{\"hidden\":true,\"children\":[\"$\",\"$La\",null,{\"children\":[\"$\",\"$6\",null,{\"name\":\"Next.Metadata\",\"children\":\"$Lb\"}]}]}],null]}],false]],\"m\":\"$undefined\",\"G\":[\"$c\",[[\"$\",\"link\",\"0\",{\"rel\":\"stylesheet\",\"href\":\"/_next/static/chunks/1lgjs4myrdrqh.css\",\"precedence\":\"next\",\"crossOrigin\":\"$undefined\",\"nonce\":\"$undefined\"}]]],\"S\":true,\"h\":null,\"r\":\"$undefined\",\"s\":\"$undefined\",\"a\":\"$undefined\",\"l\":\"$undefined\",\"p\":\"$undefined\",\"d\":\"$undefined\",\"b\":\"l8V9WzVtTxgX5KHyaX-Y7\"}\n9:[[\"$\",\"meta\",\"0\",{\"charSet\":\"utf-8\"}],[\"$\",\"meta\",\"1\",{\"name\":\"viewport\",\"content\":\"width=device-width, initial-scale=1\"}]]\nd:I[27201,[\"/_next/static/chunks/3fntmmi971322.js\"],\"IconMark\"]\n7:null\nb:[[\"$\",\"title\",\"0\",{\"children\":\"Elarys Tolkhyn\"}],[\"$\",\"meta\",\"1\",{\"name\":\"description\",\"content\":\"Elarys Tolkhyn — cross-media designer: UI/UX, book design, branding, and motion design.\"}],[\"$\",\"link\",\"2\",{\"rel\":\"icon\",\"href\":\"/favicon.ico?favicon.2qs7753_qty8h.ico\",\"sizes\":\"32x32\",\"type\":\"image/x-icon\"}],[\"$\",\"link\",\"3\",{\"rel\":\"icon\",\"href\":\"/icon.png?icon.14ie00vih421c.png\",\"sizes\":\"256x256\",\"type\":\"image/png\"}],[\"$\",\"$Ld\",\"4\",{}]]\n"])</script></body></html>
